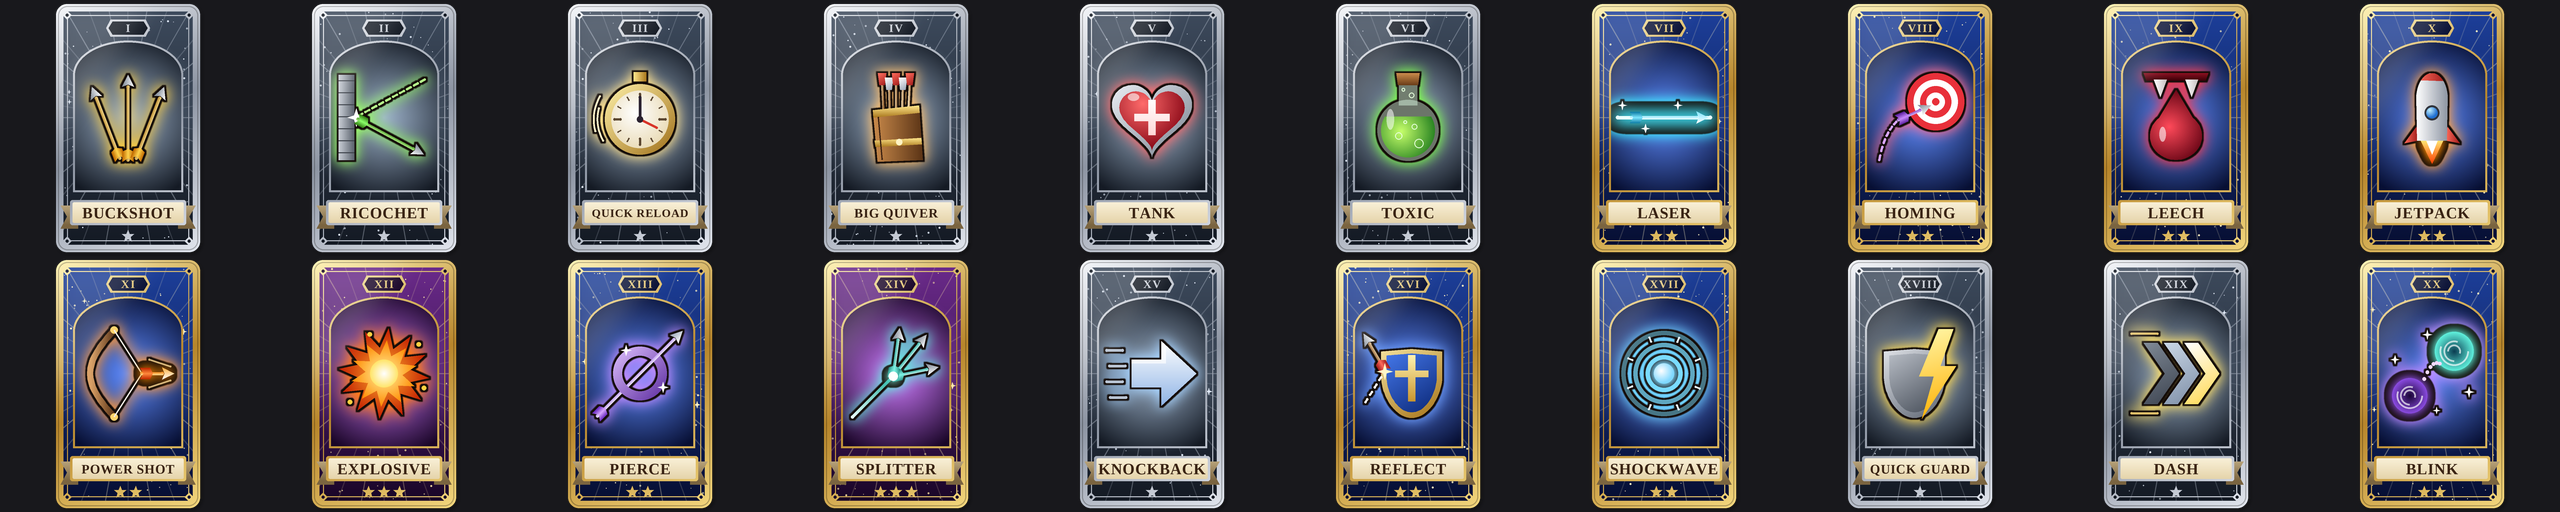
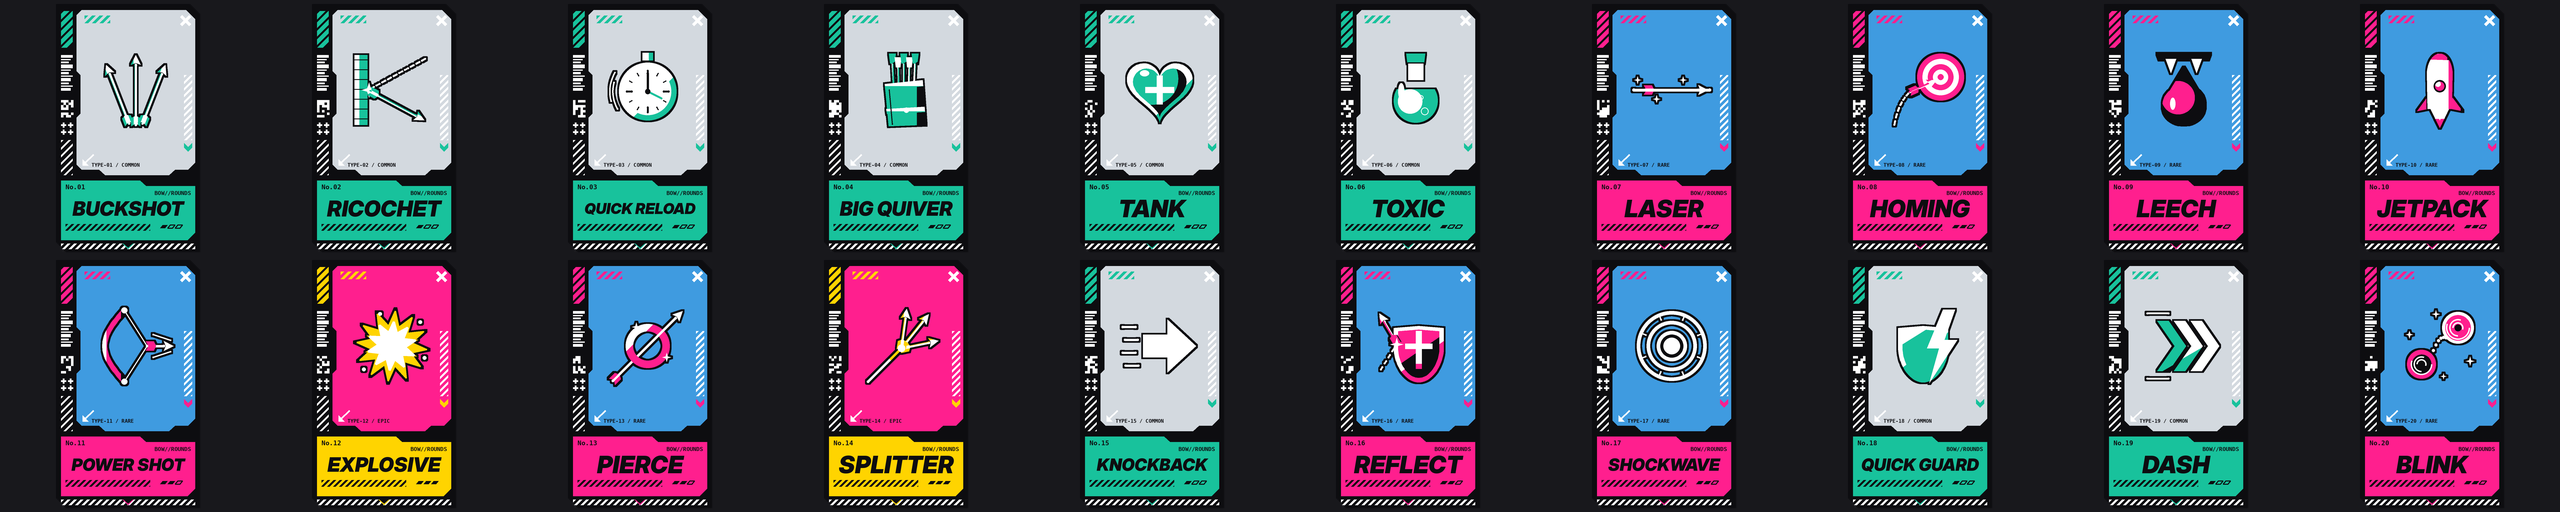
Redraw card textures in a flat cyber HUD style
Claude-Session: https://claude.ai/code/session_013AfTTR35t2sp3NT8DdSHva

diff --git a/resourcepack/generate.py b/resourcepack/generate.py
@@ -1,4 +1,4 @@
-"""カードのテクスチャ（タロットカード風、256x256）とモデル定義を生成する。
+"""カードのテクスチャ（黒地にHUD風のパネル、フラットで少ない色数、256x256）とモデル定義を生成する。
 
 使い方: python3 resourcepack/generate.py
 出力: resourcepack/pack/ 以下（これを zip にしたものがリソースパック）と resourcepack/preview.png
@@ -44,36 +44,13 @@ CARDS = {
     "blink_guard": ("rare", "Blink"),
 }
 
-# レア度ごとの配色。枠の金属・背景（上下）・背景の光・星の色
-THEMES = {
-    "common": {"metal": ("#f4f6fa", "#8d95a3", "#e2e6ee"), "bg": ("#3d4a5c", "#141a24"),
-               "halo": "#9fb4cc", "star": "#dfe8f5"},
-    "rare": {"metal": ("#fff2b0", "#b8862b", "#f3d77e"), "bg": ("#1d3f9a", "#070f33"),
-             "halo": "#5f8cff", "star": "#fff3c4"},
-    "epic": {"metal": ("#fff2b0", "#b8862b", "#f3d77e"), "bg": ("#6a2a8a", "#1a0628"),
-             "halo": "#d07bff", "star": "#ffe9a8"},
-}
-
-NUMERALS = ["I", "II", "III", "IV", "V", "VI", "VII", "VIII", "IX", "X",
-            "XI", "XII", "XIII", "XIV", "XV", "XVI", "XVII", "XVIII", "XIX", "XX"]
-
-FONT_PATHS = ["/usr/share/fonts/truetype/liberation/LiberationSerif-Bold.ttf",
-              "/usr/share/fonts/truetype/freefont/FreeSerifBold.ttf",
-              "/usr/share/fonts/truetype/dejavu/DejaVuSerif-Bold.ttf"]
-
-
-def font(size):
-    for path in FONT_PATHS:
-        if os.path.exists(path):
-            return ImageFont.truetype(path, size)
-    return ImageFont.load_default()
-
-
 def hexc(h, a=255):
     if isinstance(h, tuple):
         return h if len(h) == 4 else h + (a,)
     return tuple(int(h[i:i + 2], 16) for i in (1, 3, 5)) + (a,)
 
+
+FLAT = True
 
 # ---------------------------------------------------------------- 塗りの道具
 
@@ -145,7 +122,9 @@ def sparkle(layer, c, r, paint):
 
 
 def glow(layer, color, radius, strength=1.0):
-    """layer の形のまわりに色の光をにじませた画像を返す（layer の下に敷く）。"""
+    """layer の形のまわりに色の光をにじませた画像を返す（layer の下に敷く）。フラットなデザインなので今は使わない。"""
+    if FLAT:
+        return Image.new("RGBA", (S, S), (0, 0, 0, 0))
     a = layer.getchannel("A").filter(ImageFilter.GaussianBlur(radius))
     a = Image.fromarray(np.clip(np.asarray(a, np.float32) * strength, 0, 255).astype(np.uint8))
     g = Image.new("RGBA", (S, S), hexc(color))
@@ -438,130 +417,167 @@ def emblem(name):
     return L, accent
 
 
-# ---------------------------------------------------------------- カード本体
+# ---------------------------------------------------------------- カード本体（黒地にHUD風のパネル）
 
 CARD = (224, 16, 800, 1008)  # x0, y0, x1, y1
 
+# レア度ごとの色。パネルの色とアクセントの2色。ほかは黒と白だけ
+PALETTES = {
+    "common": {"panel": "#d3d9df", "accent": "#18c29c", "label": "COMMON"},
+    "rare": {"panel": "#3f9be0", "accent": "#ff1f8e", "label": "RARE"},
+    "epic": {"panel": "#ff1f8e", "accent": "#ffd400", "label": "EPIC"},
+}
+INK = "#0d0d10"
+WHITE = "#ffffff"
 
-def rounded(box, r):
-    return mask_of(lambda d: d.rounded_rectangle(box, r, fill=255))
+BOLD_FONTS = ["/usr/share/fonts/opentype/inter/InterDisplay-BlackItalic.otf",
+              "/usr/share/fonts/opentype/inter/Inter-BlackItalic.otf",
+              "/usr/share/fonts/truetype/dejavu/DejaVuSans-Bold.ttf"]
+MONO_FONTS = ["/usr/share/fonts/truetype/dejavu/DejaVuSansMono-Bold.ttf",
+              "/usr/share/fonts/truetype/liberation/LiberationMono-Bold.ttf"]
 
 
-def text_center(layer, xy, text, size, paint, shadow=None, spacing=0):
-    f = font(size)
+def load_font(paths, size):
+    for path in paths:
+        if os.path.exists(path):
+            return ImageFont.truetype(path, size)
+    return ImageFont.load_default()
+
+
+def text_mask(text, size, xy, anchor="mm", mono=False, angle=0.0):
+    f = load_font(MONO_FONTS if mono else BOLD_FONTS, size)
+    m = Image.new("L", (S, S), 0)
+    ImageDraw.Draw(m).text(xy, text, font=f, fill=255, anchor=anchor)
+    if angle:
+        m = m.rotate(angle, resample=Image.BICUBIC, center=xy)
+    return m
+
+
+def chamfer(x0, y0, x1, y1, cuts):
+    """角を斜めに落とした四角形。cuts = (左上, 右上, 右下, 左下) の切り落とす長さ。"""
+    a, b, c, d = cuts
+    return [(x0 + a, y0), (x1 - b, y0), (x1, y0 + b), (x1, y1 - c), (x1 - c, y1), (x0 + d, y1), (x0, y1 - d), (x0, y0 + a)]
+
+
+def hatch(layer, box, paint, step=26, width=12, slope=1.0):
+    """box の中に斜線を引く。"""
+    x0, y0, x1, y1 = box
     m = Image.new("L", (S, S), 0)
     d = ImageDraw.Draw(m)
-    w = sum(d.textlength(ch, font=f) for ch in text) + spacing * (len(text) - 1)
-    x = xy[0] - w / 2
-    for ch in text:
-        d.text((x, xy[1]), ch, font=f, fill=255, anchor="lm")
-        x += d.textlength(ch, font=f) + spacing
-    if shadow:
-        sh = Image.new("RGBA", (S, S), hexc(shadow))
-        sh.putalpha(m.filter(ImageFilter.GaussianBlur(3)))
-        layer.alpha_composite(sh, (0, 4))
+    h = y1 - y0
+    x = x0 - h * slope
+    while x < x1:
+        d.polygon([(x, y1), (x + width, y1), (x + width + h * slope, y0), (x + h * slope, y0)], fill=255)
+        x += step
+    clip = mask_of(lambda dd: dd.rectangle(box, fill=255))
+    m = Image.fromarray(np.minimum(np.asarray(m), np.asarray(clip)))
     fill(layer, m, paint)
+
+
+def cross(layer, c, r, w, paint, plus=False):
+    x, y = c
+    if plus:
+        poly(layer, [(x - w, y - r), (x + w, y - r), (x + w, y + r), (x - w, y + r)], paint)
+        poly(layer, [(x - r, y - w), (x + r, y - w), (x + r, y + w), (x - r, y + w)], paint)
+    else:
+        line(layer, [(x - r, y - r), (x + r, y + r)], w * 2, paint, round_caps=False)
+        line(layer, [(x - r, y + r), (x + r, y - r)], w * 2, paint, round_caps=False)
+
+
+def corner_arrow(layer, c, r, paint):
+    """左下向きの矢印（↙）。"""
+    x, y = c
+    line(layer, [(x + r, y - r), (x - r * 0.55, y + r * 0.55)], r * 0.36, paint, round_caps=False)
+    poly(layer, [(x - r, y + r), (x - r, y - r * 0.1), (x + r * 0.1, y + r)], paint)
+
+
+def flatten(art, accent):
+    """絵柄を 黒・白・アクセント の3色だけに塗り分け、黒い縁取りを付ける。"""
+    arr = np.asarray(art, np.float32)
+    lum = arr[..., 0] * 0.3 + arr[..., 1] * 0.59 + arr[..., 2] * 0.11
+    out = np.zeros_like(arr)
+    for lo, hi, c in ((-1, 80, INK), (80, 165, accent), (165, 256, WHITE)):
+        out[(lum > lo) & (lum <= hi)] = hexc(c)
+    alpha = np.where(arr[..., 3] > 110, 255, 0).astype(np.uint8)
+    out[..., 3] = alpha
+    flat = Image.fromarray(out.astype(np.uint8), "RGBA")
+    edge = Image.fromarray(alpha).filter(ImageFilter.MaxFilter(17))
+    base = Image.new("RGBA", (S, S), hexc(INK))
+    base.putalpha(edge)
+    base.alpha_composite(flat)
+    return base
 
 
 def card_texture(index, name, rarity, title):
     custom = os.path.join(CUSTOM, name + ".png")
     if os.path.exists(custom):
         return Image.open(custom).convert("RGBA")
-    th = THEMES[rarity]
-    m1, m2, m3 = th["metal"]
+    pal = PALETTES[rarity]
+    panel, accent = pal["panel"], pal["accent"]
     x0, y0, x1, y1 = CARD
+    num = f"{index + 1:02d}"
     img = Image.new("RGBA", (S, S), (0, 0, 0, 0))
-    metal = gradient(m1, m2, (x0, y0), (x1, y1), m3)
+    poly(img, chamfer(x0, y0, x1, y1, (0, 40, 0, 40)), INK)
 
-    # 影・外枠（金属）
-    shadow = Image.new("RGBA", (S, S), (0, 0, 0, 120))
-    shadow.putalpha(rounded((x0 + 6, y0 + 10, x1 + 6, y1 + 6), 44).filter(ImageFilter.GaussianBlur(8)).point(lambda v: v // 2))
-    img.alpha_composite(shadow)
-    fill(img, rounded(CARD, 44), metal)
-    fill(img, rounded((x0 + 8, y0 + 8, x1 - 8, y1 - 8), 38), (0, 0, 0, 70))
-    fill(img, rounded((x0 + 12, y0 + 12, x1 - 12, y1 - 12), 34), metal)
-
-    # 背景（夜空）
-    ix0, iy0, ix1, iy1 = x0 + 30, y0 + 30, x1 - 30, y1 - 30
-    inner = rounded((ix0, iy0, ix1, iy1), 22)
-    fill(img, inner, gradient(th["bg"][0], th["bg"][1], (0, iy0), (0, iy1)))
-    sky = Image.new("RGBA", (S, S), (0, 0, 0, 0))
-    ys, xs = np.mgrid[0:S, 0:S].astype(np.float32)
-    halo = Image.new("RGBA", (S, S), hexc(th["halo"]))
-    halo.putalpha(Image.fromarray((np.clip(1 - np.hypot(xs - CX, ys - CY) / 330, 0, 1) * 150).astype(np.uint8)))
-    sky.alpha_composite(halo)
-    # 後光（細い光の筋）
-    rays = Image.new("L", (S, S), 0)
-    rd = ImageDraw.Draw(rays)
-    for i in range(36):
-        a = math.pi * 2 * i / 36
-        rd.line([(CX, CY), (CX + math.cos(a) * 600, CY + math.sin(a) * 600)], fill=60 if i % 2 else 110, width=3)
-    rays = rays.filter(ImageFilter.GaussianBlur(1))
-    fill(sky, rays, th["star"])
+    # 左の細い帯：斜線ブロック、バーコード、ノイズ、＋＋
+    poly(img, chamfer(244, 44, 290, 190, (0, 0, 22, 0)), accent)
+    hatch(img, (244, 44, 290, 190), INK, step=34, width=10)
+    for i, w in enumerate((10, 4, 6, 14, 4, 8, 4, 12, 6, 4, 10)):
+        y = 220 + sum((10, 4, 6, 14, 4, 8, 4, 12, 6, 4, 10)[:i]) + i * 6
+        poly(img, [(244, y), (290 - (i % 3) * 8, y), (290 - (i % 3) * 8, y + w), (244, y + w)], WHITE)
     rng = random.Random(name)
-    sd = Image.new("L", (S, S), 0)
-    sdd = ImageDraw.Draw(sd)
-    for _ in range(90):
-        x, y, r = rng.uniform(ix0, ix1), rng.uniform(iy0, iy1), rng.choice((1.5, 2, 2.5, 3.5))
-        sdd.ellipse((x - r, y - r, x + r, y + r), fill=rng.randint(120, 255))
-    fill(sky, sd, th["star"])
-    for _ in range(5):
-        sparkle(sky, (rng.uniform(ix0 + 20, ix1 - 20), rng.uniform(iy0 + 120, iy1 - 260)), rng.uniform(8, 16), th["star"])
-    # 夜空は内側だけに
-    a = np.asarray(sky.getchannel("A"), np.float32) * (np.asarray(inner, np.float32) / 255)
-    sky.putalpha(Image.fromarray(a.astype(np.uint8)))
-    img.alpha_composite(sky)
+    for gy in range(400, 470, 10):
+        for gx in range(244, 290, 10):
+            if rng.random() < 0.55:
+                poly(img, [(gx, gy), (gx + 9, gy), (gx + 9, gy + 9), (gx, gy + 9)], WHITE)
+    for cx, cy in ((254, 500), (282, 500), (254, 528), (282, 528)):
+        cross(img, (cx, cy), 10, 3, WHITE, plus=True)
+    hatch(img, (244, 560, 290, 700), WHITE, step=30, width=9)
 
-    # 内側の細い金線と四隅の飾り
-    fill(img, mask_of(lambda d: d.rounded_rectangle((ix0 + 14, iy0 + 14, ix1 - 14, iy1 - 14), 14, outline=255, width=4)), metal)
-    for cx, cy in ((ix0 + 14, iy0 + 14), (ix1 - 14, iy0 + 14), (ix0 + 14, iy1 - 14), (ix1 - 14, iy1 - 14)):
-        poly(img, [(cx, cy - 18), (cx + 18, cy), (cx, cy + 18), (cx - 18, cy)], metal)
-        ellipse(img, (cx - 6, cy - 6, cx + 6, cy + 6), th["bg"][1])
+    # メインのパネル（左に段差、角を落とす）
+    main = [(326, 40), (744, 40), (780, 76), (780, 650), (752, 678), (700, 678), (676, 700), (420, 700), (396, 678),
+            (326, 678), (306, 658), (306, 470), (322, 454), (322, 300), (306, 284), (306, 60)]
+    poly(img, main, panel)
+    # パネル内の飾り：右の斜線、右上の×、左上の斜線、左下の↙
+    hatch(img, (736, 300, 768, 560), WHITE, step=26, width=10)
+    poly(img, [(736, 572), (752, 588), (768, 572), (768, 590), (752, 606), (736, 590)], accent)
+    cross(img, (742, 82), 18, 6, WHITE)
+    hatch(img, (338, 62, 440, 92), accent, step=30, width=14)
+    corner_arrow(img, (352, 640), 22, WHITE)
+    fill(img, text_mask(f"TYPE-{num} / {pal['label']}", 20, (366, 678 - 18), anchor="lm", mono=True), INK)
 
-    # 上の番号
-    poly(img, [(CX - 70, 78), (CX + 70, 78), (CX + 88, 112), (CX + 70, 146), (CX - 70, 146), (CX - 88, 112)], metal)
-    poly(img, [(CX - 62, 86), (CX + 62, 86), (CX + 78, 112), (CX + 62, 138), (CX - 62, 138), (CX - 78, 112)], th["bg"][1])
-    text_center(img, (CX, 112), NUMERALS[index], 46, metal, spacing=4)
+    # 絵柄（3色＋黒い縁取り）。パネルの中央に縮めて置く
+    art, _ = emblem(name)
+    art = flatten(art, accent)
+    k = 0.82
+    tx, ty = 543, 360
+    art = art.transform((S, S), Image.AFFINE, (1 / k, 0, CX - tx / k, 0, 1 / k, CY - ty / k), resample=Image.BICUBIC)
+    img.alpha_composite(art)
 
-    # 絵柄（アーチの窓の中）
-    arch = mask_of(lambda d: (d.rectangle((300, 300, 724, 760), fill=255), d.ellipse((300, 170, 724, 430), fill=255)))
-    fill(img, mask_of(lambda d: (d.rectangle((292, 300, 732, 768), fill=255), d.ellipse((292, 162, 732, 438), fill=255))), metal)
-    fill(img, arch, radial(th["halo"], th["bg"][1], (CX, CY), 340))
-    art, accent = emblem(name)
-    art = outlined(art)
-    glow_layer = glow(art, accent, 26, 1.3)
-    window = Image.new("RGBA", (S, S), (0, 0, 0, 0))
-    window.alpha_composite(glow_layer)
-    window.alpha_composite(art)
-    a = np.asarray(window.getchannel("A"), np.float32) * (np.asarray(arch, np.float32) / 255)
-    window.putalpha(Image.fromarray(a.astype(np.uint8)))
-    img.alpha_composite(window)
+    # 下のパネル：名前と小さな文字
+    lower = [(244, 722), (560, 722), (584, 744), (780, 744), (780, 930), (750, 960), (244, 960)]
+    poly(img, lower, accent)
+    size = 96
+    while size > 40:
+        bb = text_mask(title.upper(), size, (512, 834)).getbbox()
+        if bb[2] - bb[0] <= 470:
+            break
+        size -= 4
+    fill(img, text_mask(title.upper(), size, (512, 834), anchor="mm"), INK)
+    fill(img, text_mask(f"No.{num}", 26, (262, 748), anchor="lm", mono=True), INK)
+    fill(img, text_mask("BOW//ROUNDS", 22, (764, 772), anchor="rm", mono=True), INK)
+    for i in range(3):
+        x = 640 + i * 30
+        if i < {"common": 1, "rare": 2, "epic": 3}[rarity]:
+            poly(img, [(x, 912), (x + 20, 912), (x + 30, 900), (x + 10, 900)], INK)
+        else:
+            line(img, [(x, 912), (x + 20, 912), (x + 30, 900), (x + 10, 900), (x, 912)], 4, INK, round_caps=False)
+    hatch(img, (262, 896, 600, 922), INK, step=24, width=10)
 
-    # 名前の帯（リボン）
-    ry0, ry1 = 800, 900
-    for s in (-1, 1):
-        tip = CX + s * 270
-        poly(img, [(CX + s * 200, ry0 + 22), (tip, ry0 + 22), (tip - s * 26, (ry0 + ry1) / 2 + 16), (tip, ry1 + 14),
-                   (CX + s * 200, ry1 + 14)], gradient("#c9b48a", "#7a6440", (0, ry0), (0, ry1)))
-    fill(img, mask_of(lambda d: d.rounded_rectangle((CX - 232, ry0, CX + 232, ry1), 10, fill=255)), metal)
-    fill(img, mask_of(lambda d: d.rounded_rectangle((CX - 222, ry0 + 9, CX + 222, ry1 - 9), 6, fill=255)),
-         gradient("#fbf3dc", "#e3d1a6", (0, ry0), (0, ry1)))
-    size = 62 if len(title) <= 9 else 52 if len(title) <= 11 else 46
-    text_center(img, (CX, (ry0 + ry1) / 2 + 2), title.upper(), size, "#3a2414", spacing=2)
-
-    # レア度の星
-    count = {"common": 1, "rare": 2, "epic": 3}[rarity]
-    for i in range(count):
-        x = CX + (i - (count - 1) / 2) * 62
-        star = [(x + (26 if k % 2 == 0 else 11) * math.cos(-math.pi / 2 + math.pi * k / 5),
-                 945 + (26 if k % 2 == 0 else 11) * math.sin(-math.pi / 2 + math.pi * k / 5)) for k in range(10)]
-        poly(img, star, metal)
-
-    # 全体にうっすら光沢
-    gloss = mask_of(lambda d: d.polygon([(x0, y0), (x0 + 380, y0), (x0, y0 + 520)], fill=255)).filter(ImageFilter.GaussianBlur(40))
-    gloss = Image.fromarray((np.asarray(gloss, np.float32) * (np.asarray(rounded(CARD, 44), np.float32) / 255) * 0.18).astype(np.uint8))
-    fill(img, gloss, "#ffffff")
-
+    # いちばん下：斜線の帯とVの切り欠き
+    hatch(img, (244, 974, 780, 996), WHITE, step=26, width=11)
+    poly(img, [(490, 974), (534, 974), (512, 996)], accent)
+    poly(img, [(494, 974), (530, 974), (512, 990)], INK)
     return img.resize((OUT, OUT), Image.LANCZOS)
 
 

diff --git a/docs/game-design.md b/docs/game-design.md
@@ -106,5 +106,5 @@ ROUNDS の「負けた側がカードで強化を選ぶ」ループを、Minecra
 その後、多チーム戦、カード追加、マップ追加、リソースパックの順で広げる。
 
 ### 今後やりたいこと（メモ）
-- **カードのテクスチャ**：タロットカード風（256x256、`resourcepack/generate.py` で生成。上に番号、下に名前の帯、レア度で枠の金属・背景色・星の数が変わる。`resourcepack/custom/` に置いた手描き画像で1枚ずつ差し替え可）。参加時にパックを配り、読み込めた人だけ `item_model` で差し替え。今後は絵柄の描き込み・カード名の文字入れなど
+- **カードのテクスチャ**：フラットなサイバー/ストリート系（256x256、`resourcepack/generate.py` で生成。黒地に角を落としたHUD風パネル、斜線・＋・×の飾り、下に名前。色は黒・白＋レア度ごとの2色：コモン＝グレー/ミント、レア＝青/ピンク、エピック＝ピンク/黄。`resourcepack/custom/` に置いた手描き画像で1枚ずつ差し替え可）。参加時にパックを配り、読み込めた人だけ `item_model` で差し替え。今後は絵柄の描き込み・カード名の文字入れなど
 - **敵の能力確認**：`/br cards` で一覧（カード名ホバーで効果）は実装済み。将来は相手を見たときに能力を出す、なども検討

diff --git a/README.md b/README.md
@@ -69,7 +69,7 @@ gradle build
 
 ## カードの絵柄（リソースパック）
 
-カードにはタロットカード風の絵柄があります（[一覧](resourcepack/preview.png)）。サーバーに入ると「カードの絵柄を表示するリソースパック」を読み込むか聞かれ、許可した人には3Dのカード選択・カード画面・能力一覧がこの絵柄で表示されます。断った人はこれまでどおりバニラのアイテムで表示されます。
+カードには黒地にHUD風のパネルを組み合わせた、フラットなサイバー系の絵柄があります（[一覧](resourcepack/preview.png)）。サーバーに入ると「カードの絵柄を表示するリソースパック」を読み込むか聞かれ、許可した人には3Dのカード選択・カード画面・能力一覧がこの絵柄で表示されます。断った人はこれまでどおりバニラのアイテムで表示されます。
 
 パックは GitHub の最新リリース（`BowRounds-pack.zip`）から自動で配られるので、サーバー側の設定は不要です。`config.yml` の `resource-pack` で無効化や必須化（断ったら入れない）ができます。絵柄は `python3 resourcepack/generate.py` で作り直せます。自分で描いたカードは `resourcepack/custom/<カード名>.png` に置くと、そのカードだけ差し替わります。
 
